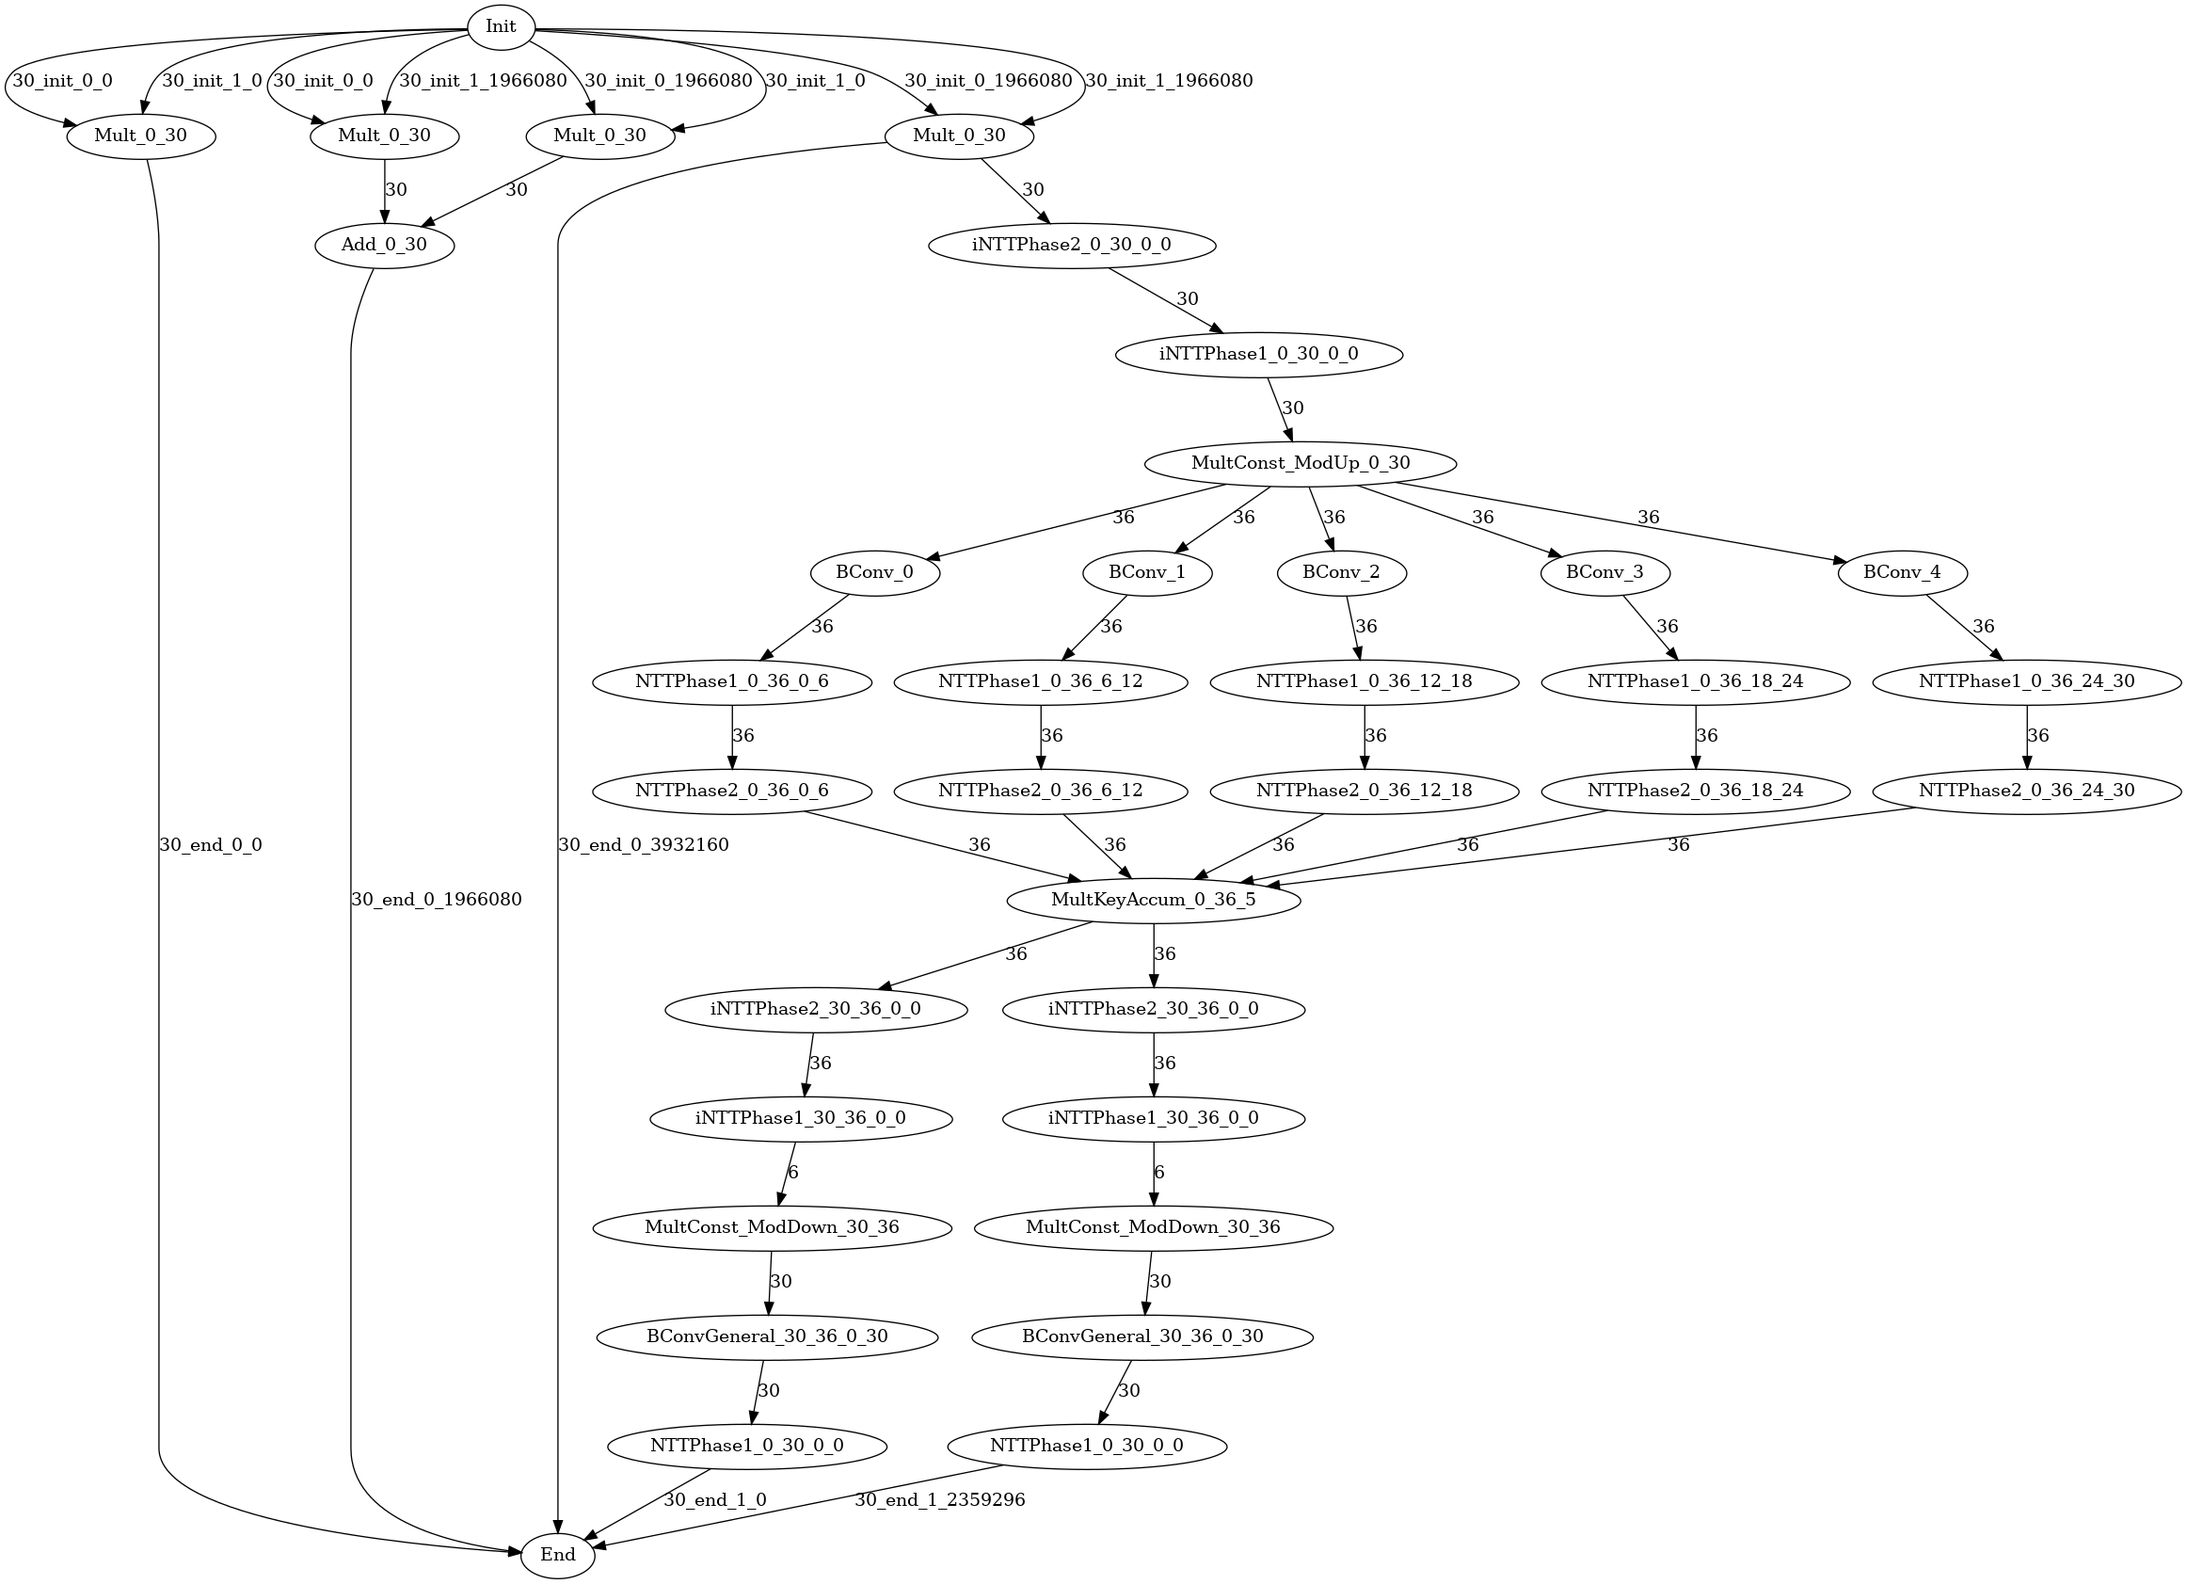
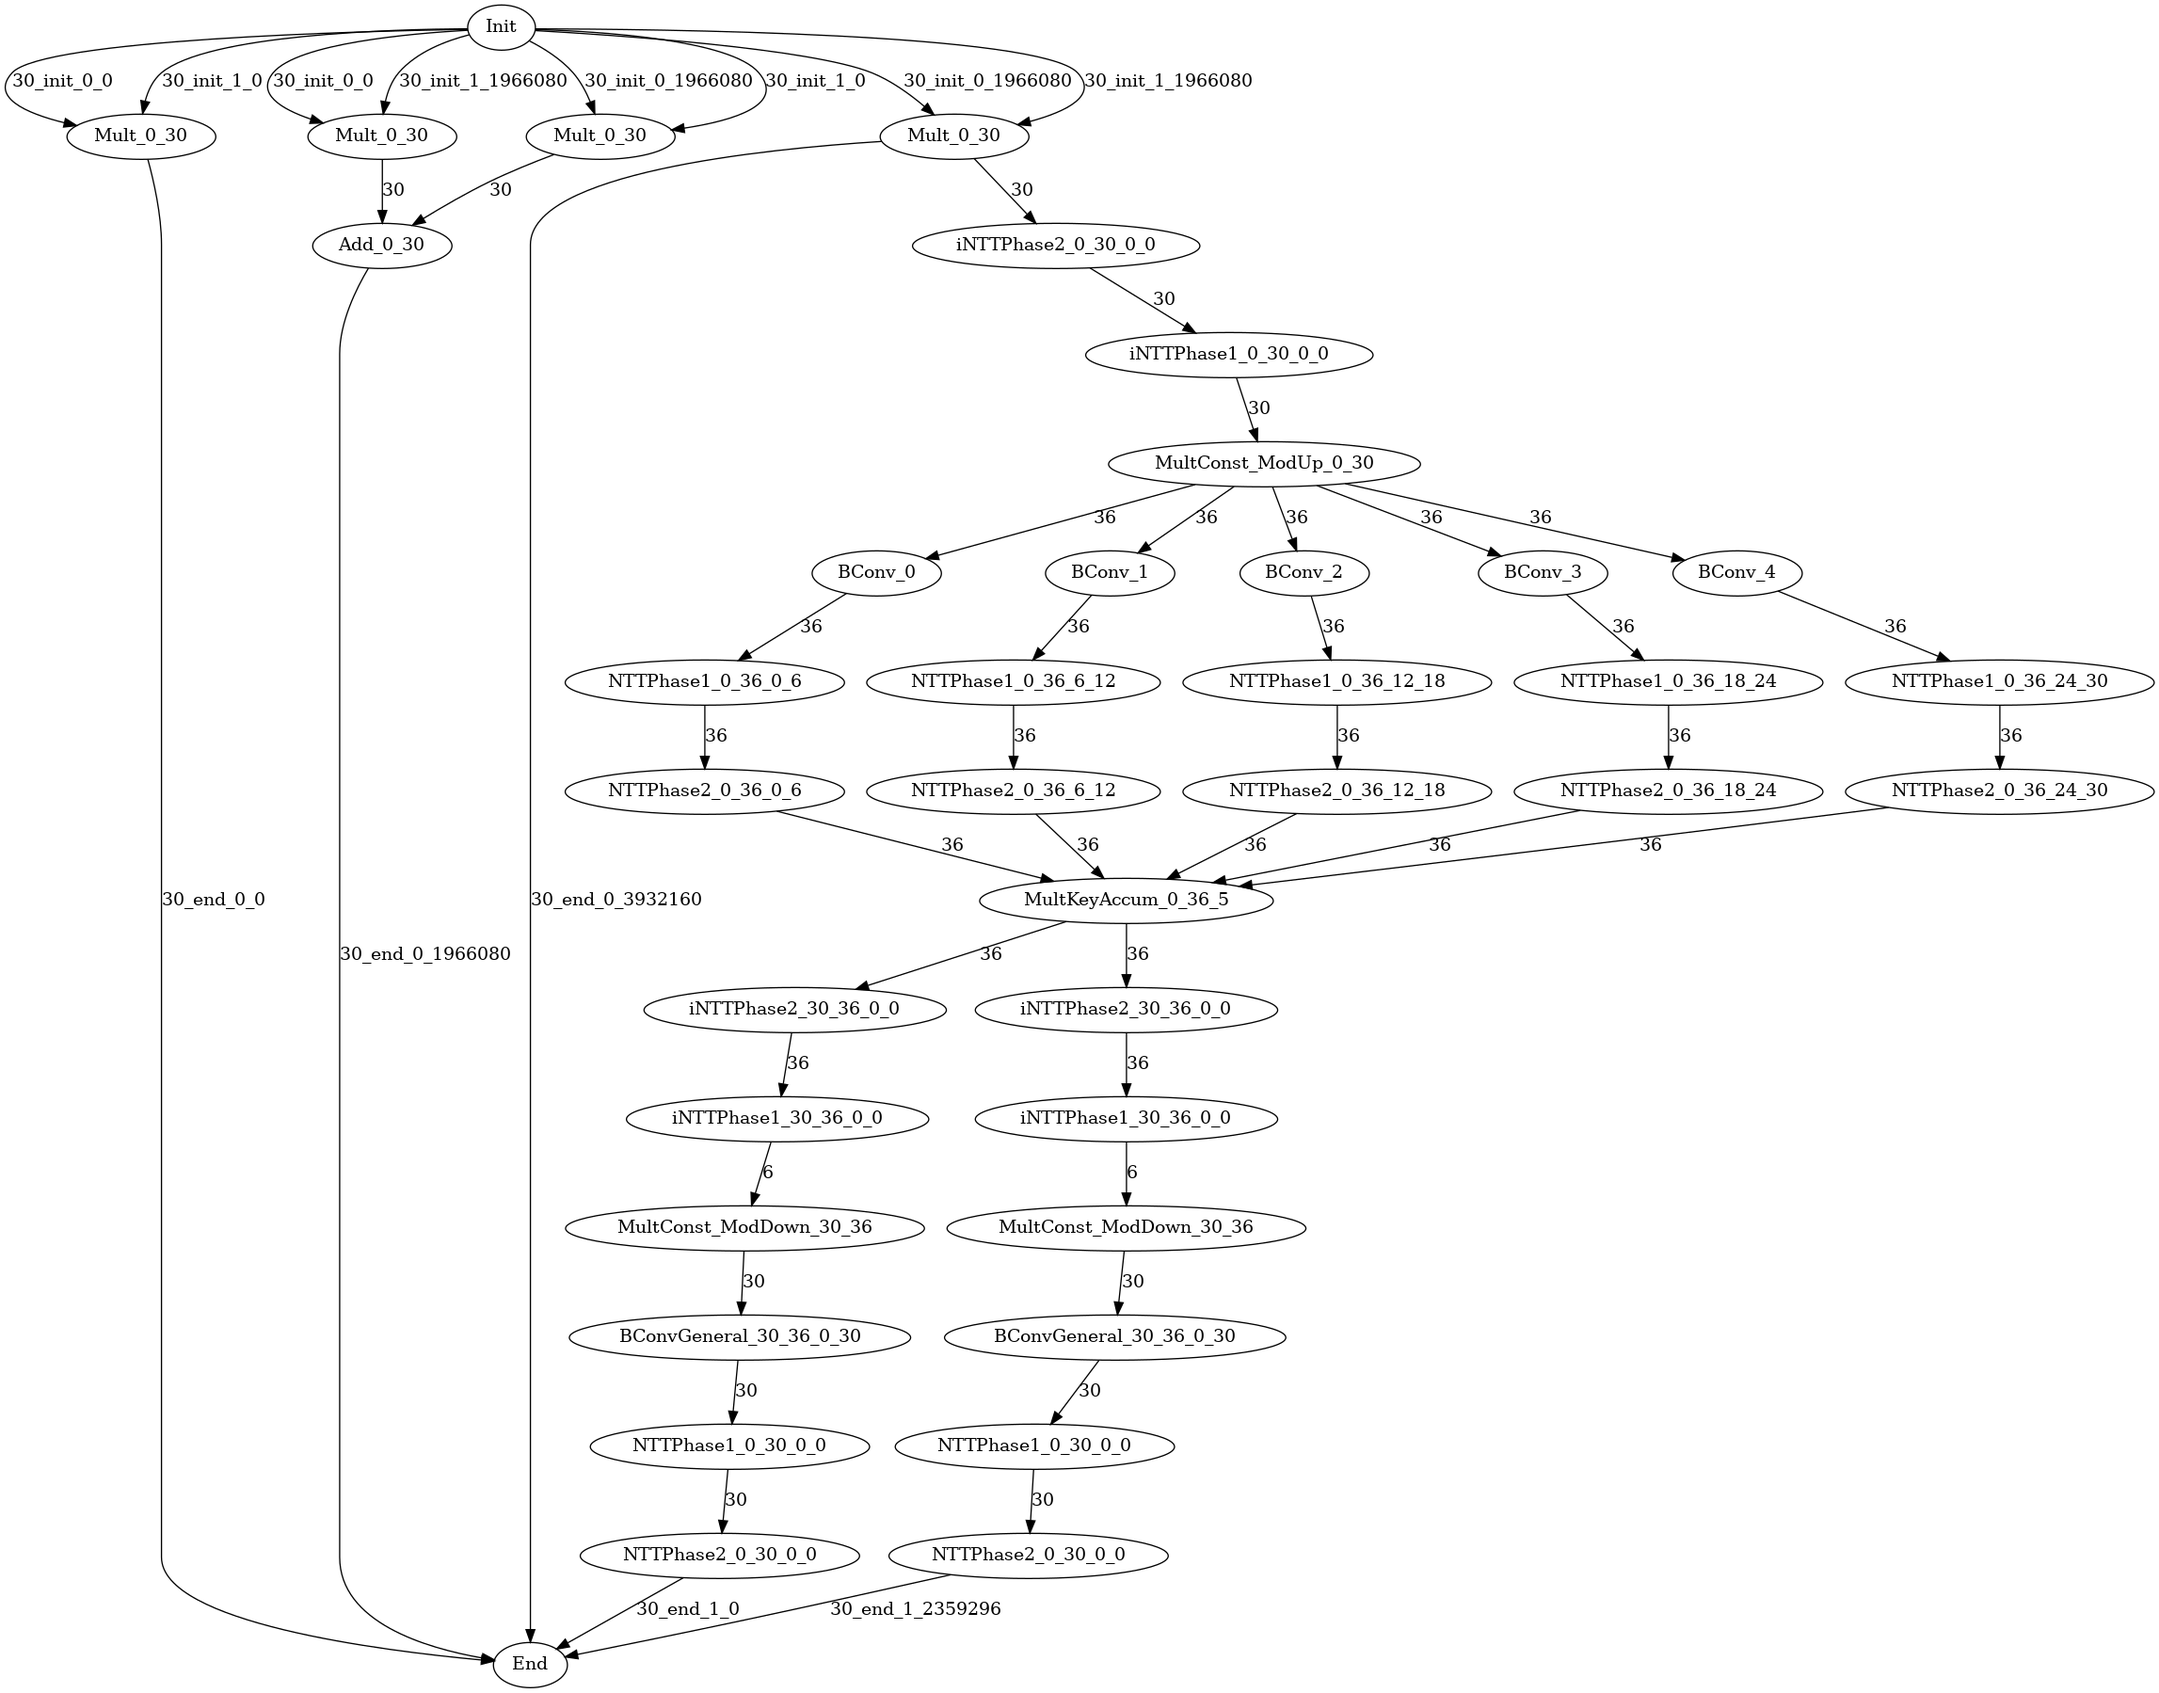
update nttp2

diff --git a/polyfhe/engine/codegen/cuda_codegen.cpp b/polyfhe/engine/codegen/cuda_codegen.cpp
@@ -913,16 +913,24 @@ void CudaCodegen::generate_kernel_defs(
 
                     const int exclude_start = node->get_exclude_start_idx();
                     const int exclude_end = node->get_exclude_end_idx();
-                    w_body << "const size_t exclude_end = " << exclude_end
-                           << ";\n";
-                    if (exclude_start != 0) {
+                    bool if_exclude = false;
+                    if (exclude_end - exclude_start > 0) {
+                        if_exclude = true;
+                        w_body << "const size_t exclude_end = " << exclude_end
+                               << ";\n";
                         w_body
                             << "const size_t exclude_start = " << exclude_start
                             << ";\n";
                         w_body << "if (twr_idx >= exclude_start && twr_idx < "
                                   "exclude_end){continue;}\n";
-                    } else {
-                        w_body << "if (twr_idx < exclude_end) {continue;}\n";
+                        w_body << "const uint64_t size_P = params->K;\n";
+                        w_body << "const uint64_t size_QP = params->KL;\n";
+                        w_body
+                            << "size_t twr_idx2 ="
+                               "(twr_idx >= start_limb + end_limb - "
+                               "size_P"
+                               "? size_QP - (start_limb + end_limb - twr_idx)"
+                               ": twr_idx);\n";
                     }
 
                     w_body << "uint64_t n_init;\n";
@@ -930,7 +938,13 @@ void CudaCodegen::generate_kernel_defs(
                     w_body << "params, " << inedge->get_name()
                            << ", shared, reg, twiddles,"
                            << "twiddles_shoup, modulus, end_limb,"
-                           << "start_limb, twr_idx, &n_init, tid);\n";
+                           << "start_limb, twr_idx";
+                    if (if_exclude) {
+                        w_body << ", twr_idx2";
+                    } else {
+                        w_body << ", twr_idx";
+                    }
+                    w_body << ", &n_init, tid);\n";
 
                     // define store here
                     std::shared_ptr<core::Edge> g_store_to = nullptr;
@@ -1151,7 +1165,8 @@ void CudaCodegen::generate_call_kernels(
 
         if (subgraph->get_subgraph_type() == core::SubgraphType::L2) {
             w << "const int limb_per = params_h->alpha * n_opt;\n";
-            w << "int n_divide_ = std::ceil(1.0 * modup_limb / limb_per);\n";
+            w << "int n_divide_ = std::ceil(1.0 * modup_limb / "
+                 "limb_per);\n";
             w << "for (int iter = 0; iter < n_divide_; iter++)\n";
             w.block_begin();
             w << "int start_li = iter * limb_per;\n";
@@ -1179,7 +1194,8 @@ void CudaCodegen::generate_call_kernels(
             }
             w << "NTTP2_MultKeyAccum_part<<<4096, 128,"
                  "8 * 128 * sizeof(uint64_t)>>>("
-                 "params_d, start_li, end_li, 0, modup_limb, params_h->K, beta,"
+                 "params_d, start_li, end_li, 0, modup_limb, params_h->K, "
+                 "beta,"
                  "params_h->ntt_tables->twiddle(),"
                  "params_h->ntt_tables->twiddle_shoup(),"
                  "params_h->ntt_tables->modulus(), d_accum_in_list,"
@@ -1202,7 +1218,8 @@ void CudaCodegen::generate_call_kernels(
                 w << "(params_h->L - params_h->alpha * (beta - 1))";
                 w << ": params_h->alpha;\n";
                 w << "auto &bconv_pre = "
-                     "drns_tool->v_base_part_Ql_to_compl_part_QlP_conv()[beta_"
+                     "drns_tool->v_base_part_Ql_to_compl_part_QlP_conv()["
+                     "beta_"
                      "idx];"
                      "\n";
                 w << "auto &ibase = bconv_pre.ibase();\n";

diff --git a/example/ckks_HMult/example.py b/example/ckks_HMult/example.py
@@ -111,7 +111,7 @@ moddown_scale_ax = pf.mul_const(inttp1_ax, "ModDownScaleAx", PrecomputedValue.Mo
 moddown_scale_bx = pf.mul_const(inttp1_bx, "ModDownScaleBx", PrecomputedValue.ModDown, prm.L, prm.L + prm.K)
 bconv_ax = pf.bconv_general(moddown_scale_ax, f"BConv_ax", prm.L, prm.L + prm.K, 0, prm.L)
 bconv_bx = pf.bconv_general(moddown_scale_bx, f"BConv_bx", prm.L, prm.L + prm.K, 0, prm.L)
-NTT_ax = pf.ntt(
+nttp1_ax = pf.ntt(
         bconv_ax,
         f"NTTP1_ax",
         if_forward=True,
@@ -119,11 +119,27 @@ NTT_ax = pf.ntt(
         start_limb=0,
         end_limb=prm.L,
 ) 
-NTT_bx = pf.ntt(
+nttp2_ax = pf.ntt(
+        nttp1_ax,
+        f"NTTP2_ax",
+        if_forward=True,
+        if_phase1=False,
+        start_limb=0,
+        end_limb=prm.L,
+)
+nttp1_bx = pf.ntt(
         bconv_bx,
         f"NTTP1_bx",
         if_forward=True,
         if_phase1=True,
+        start_limb=0,
+        end_limb=prm.L,
+)
+nttp2_bx = pf.ntt(
+        nttp1_bx,
+        f"NTTP2_bx",
+        if_forward=True,
+        if_phase1=False,
         start_limb=0,
         end_limb=prm.L,
 )
@@ -132,8 +148,8 @@ res_axbx = pf.end(add_axbx, 0, prm.N * prm.L)
 res_bxbx = pf.end(mult_bxbx, 0, prm.N * prm.L * 2)
 # res_ax = pf.end(bconv_ax, 1, 0)
 # res_bx = pf.end(bconv_bx, 1, prm.N * (prm.L + prm.K))
-res_ax = pf.end(NTT_ax, 1, 0)
-res_bx = pf.end(NTT_bx, 1, prm.N * (prm.L + prm.K))
+res_ax = pf.end(nttp2_ax, 1, 0)
+res_bx = pf.end(nttp2_bx, 1, prm.N * (prm.L + prm.K))
 
 target.append(res_axax)
 target.append(res_axbx)

diff --git a/polyfhe/kernel/ntt-phantom.hpp b/polyfhe/kernel/ntt-phantom.hpp
@@ -395,20 +395,14 @@ __device__ __forceinline__ void d_poly_fnwt_phase2(
     Params* params, uint64_t* inout, uint64_t* buffer, uint64_t* samples,
     const uint64_t* twiddles, const uint64_t* twiddles_shoup,
     const DModulus* modulus_table, size_t coeff_mod_size, size_t start_mod_idx,
-    size_t twr_idx, size_t* n_init, size_t tid) {
+    size_t twr_idx, size_t twr_idx2, size_t* n_init, size_t tid) {
     const uint64_t n = params->N;
     const uint64_t n1 = params->n1;
     const uint64_t n2 = params->n2;
-    const uint64_t size_P = params->K;
-    const uint64_t size_QP = params->KL;
     size_t group = n2 / 8;
     size_t set = threadIdx.x / group;
     // size of a block
     size_t t = n2 / 2;
-    size_t twr_idx2 =
-        (twr_idx >= start_mod_idx + coeff_mod_size - size_P
-             ? size_QP - (start_mod_idx + coeff_mod_size - twr_idx)
-             : twr_idx);
     // index in n/2 range
     size_t n_idx = tid % (n / 8);
     // tid'th block
